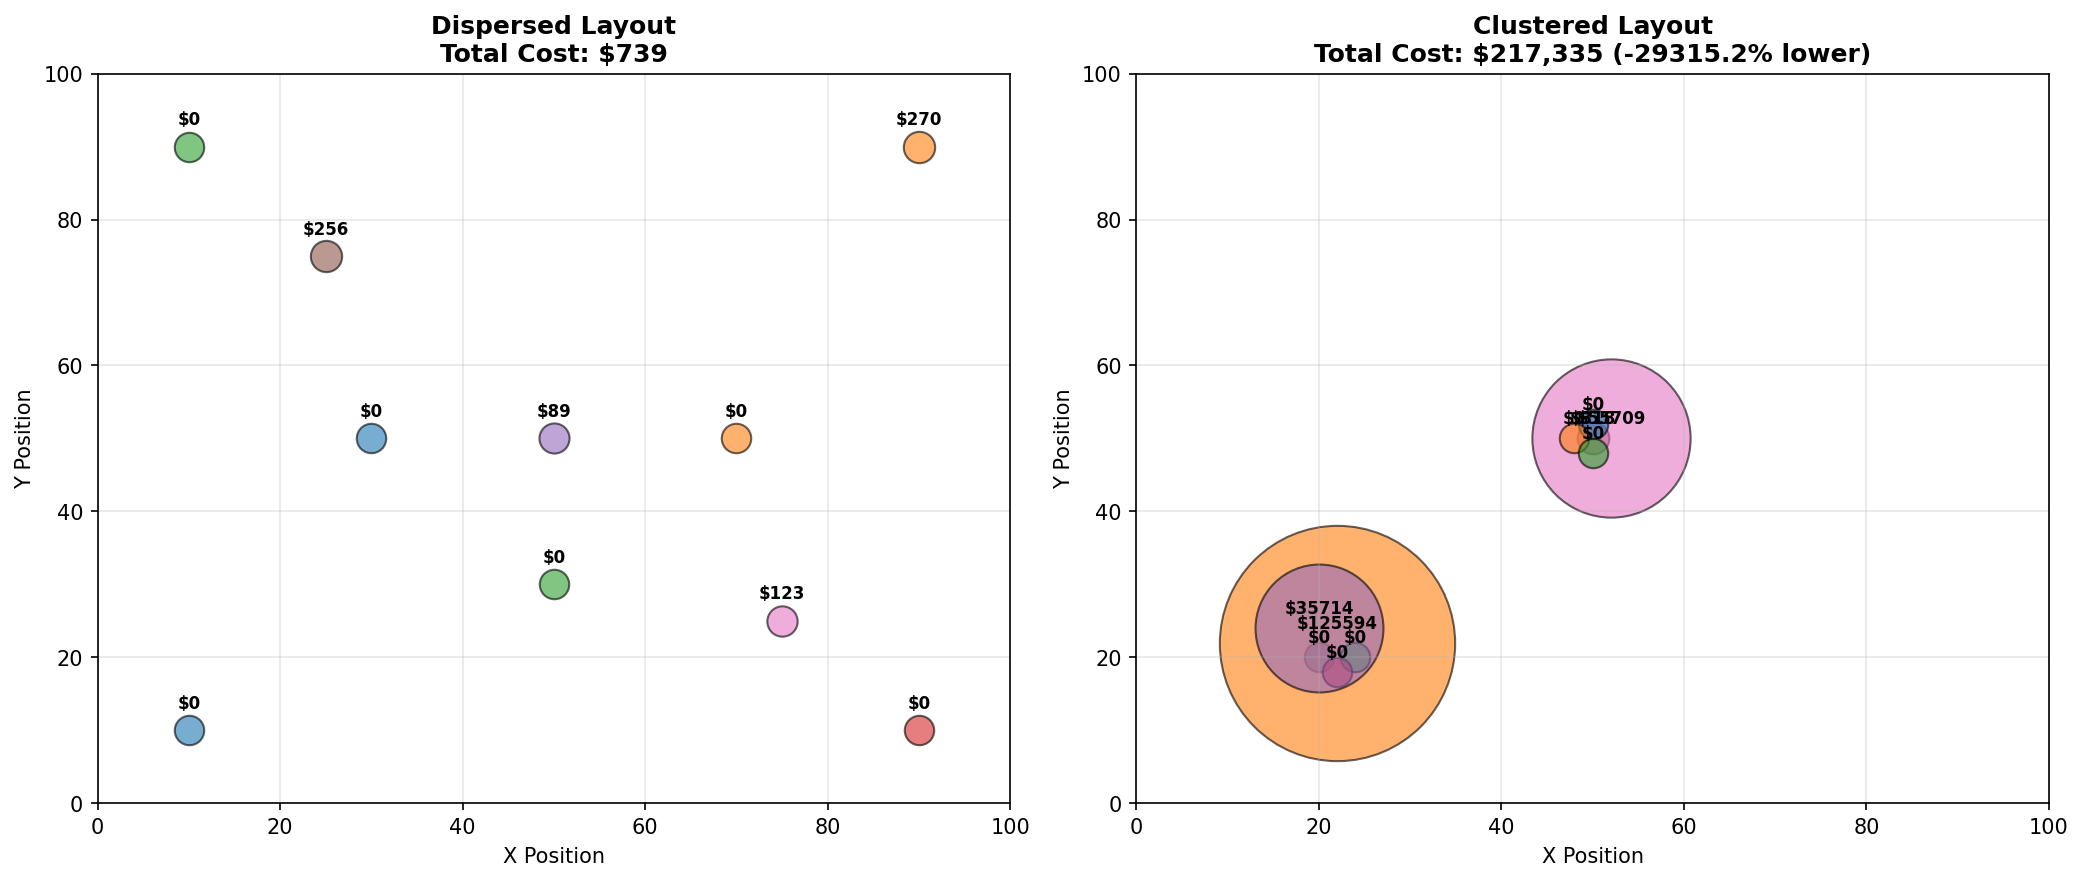
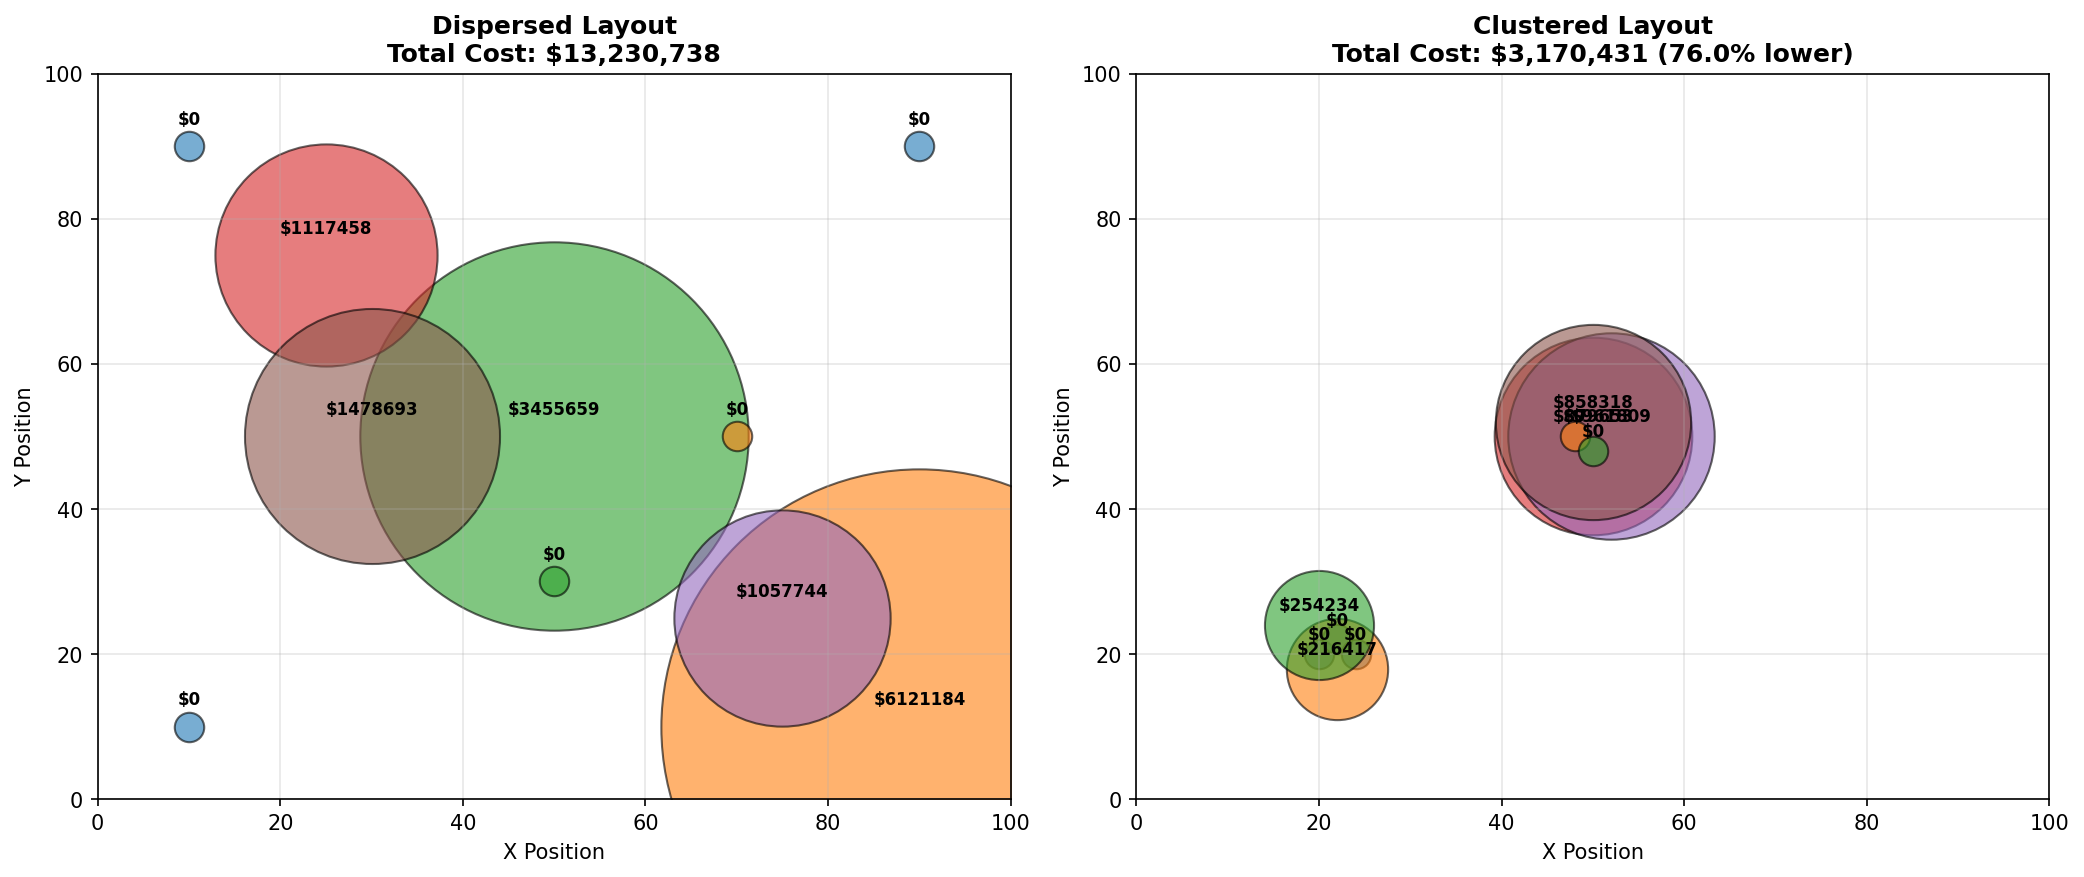
(bugfix) logits cost x^-2 -> x

diff --git a/demos/demo_logistic_cost.py b/demos/demo_logistic_cost.py
@@ -17,11 +17,11 @@ def visualize_cost_vs_distance():
     fig, (ax1, ax2) = plt.subplots(1, 2, figsize=(14, 5))
     
     # Plot 1: Cost vs Distance for different cost rates
-    distances = np.linspace(0.5, 50, 100)
+    distances = np.linspace(1, 50, 49)
     trade_volume = 1000.0
     
-    for rate in [10.0, 100.0, 500.0, 1000.0]:
-        costs = [rate * trade_volume / (d**2) for d in distances]
+    for rate in [0.1, 1.0, 10.0, 100.0]:
+        costs = [rate * trade_volume * d for d in distances]
         ax1.plot(distances, costs, label=f'k = {rate}', linewidth=2)
     
     ax1.set_xlabel('Distance', fontsize=12)
@@ -33,11 +33,11 @@ def visualize_cost_vs_distance():
     ax1.set_ylim(bottom=1)
     
     # Plot 2: Net profit vs Distance
-    revenue = 5000.0
+    revenue = 50000.0
     distance_range = np.linspace(1, 50, 50)
     
-    for rate in [100.0, 500.0]:
-        net_profits = [revenue - (rate * revenue * 0.2 / (d**2)) for d in distance_range]
+    for rate in [0.01, 0.1]:
+        net_profits = [revenue - (rate * revenue * 0.2 * d) for d in distance_range]
         ax2.plot(distance_range, net_profits, label=f'k = {rate}', linewidth=2, marker='o', markersize=3)
     
     ax2.axhline(y=revenue, color='green', linestyle='--', label='Max Profit (no logistics)', alpha=0.5)
@@ -57,31 +57,48 @@ def simulate_clustering_benefit():
     print("\n" + "="*70)
     print("CLUSTERING BENEFIT SIMULATION")
     print("="*70)
+    print("\n配置说明：")
+    print("  - 3个Tier 0公司（Raw材料）提供充足供应")
+    print("  - 7个下游公司从上游购买并产生物流成本")
+    print("  - production_capacity_ratio=0.5 确保供应充足")
+    print("  - logistic_cost_rate=100.0 使成本更明显")
+    print("  - 运行5个时间步以累积物流成本\n")
     
     # Scenario 1: Dispersed companies
     print("\n📍 Scenario 1: DISPERSED LAYOUT")
     print("   Companies spread across the map\n")
     
     config1 = Config()
-    config1.environment.logistic_cost_rate = 100.0
+    config1.environment.logistic_cost_rate = 100.0  # 提高费率使成本更明显
+    # 增加生产能力以确保供应充足
+    config1.environment.production_capacity_ratio = 0.5  # 从0.1提高到0.5
     env1 = IndustryEnv(config1.environment)
     env1.reset()
     
     # Create dispersed companies
+    # 使用更多会产生物流成本的sector（避免过多Tier 0和Other sector）
     locations_dispersed = [
         (10, 10), (90, 90), (10, 90), (90, 10), (50, 50),
         (25, 75), (75, 25), (30, 50), (70, 50), (50, 30)
     ]
     
+    # 使用sector_id: [0, 0, 0, 1, 2, 3, 4, 5, 1, 2]
+    # 3个Tier 0公司（Raw）提供充足供应，7个下游公司会购买并产生物流成本
+    sector_ids = [0, 0, 0, 1, 2, 3, 4, 5, 1, 2]
+    
     for i, loc in enumerate(locations_dispersed):
-        sector_id = i % 7  # Only 7 sectors: 0=Raw, 1=Parts, 2=Electronics, 3=Battery/Motor, 4=OEM, 5=Service, 6=Other
-        env1.companies.append(Company(100000, sector_id, loc, logistic_cost_rate=100.0))
+        sector_id = sector_ids[i]
+        env1.companies.append(Company(100000, sector_id, loc, logistic_cost_rate=1.0))
         env1.num_firms += 1
     
-    # Build supply chain network and run simulation
+    # Build supply chain network and run simulation multiple times
+    # 运行多次以累积物流成本
     if env1.enable_products:
         env1._build_supply_chain_network()
-        env1._simulate_supply_chain()
+        
+        # 运行5个时间步来累积物流成本
+        for step in range(5):
+            env1._simulate_supply_chain()
     
     total_cost_dispersed = sum(c.logistic_cost for c in env1.companies)
     avg_cost_dispersed = total_cost_dispersed / len(env1.companies) if env1.companies else 0
@@ -89,12 +106,18 @@ def simulate_clustering_benefit():
     print(f"   Total logistic cost: ${total_cost_dispersed:,.2f}")
     print(f"   Avg cost per company: ${avg_cost_dispersed:,.2f}")
     
+    # 显示每个公司的详细信息
+    non_zero_costs = sum(1 for c in env1.companies if c.logistic_cost > 0)
+    print(f"   Companies with logistic costs: {non_zero_costs}/{len(env1.companies)}")
+    
     # Scenario 2: Clustered companies
     print("\n📍 Scenario 2: CLUSTERED LAYOUT")
     print("   Companies grouped by supply chain relationships\n")
     
     config2 = Config()
-    config2.environment.logistic_cost_rate = 100.0
+    config2.environment.logistic_cost_rate = 100.0  # 提高费率使成本更明显
+    # 增加生产能力以确保供应充足
+    config2.environment.production_capacity_ratio = 0.5  # 从0.1提高到0.5
     env2 = IndustryEnv(config2.environment)
     env2.reset()
     
@@ -104,21 +127,33 @@ def simulate_clustering_benefit():
         (50, 50), (52, 50), (50, 52), (48, 50), (50, 48)   # Cluster 2
     ]
     
+    # 使用相同的sector分配以便公平比较
+    # 3个Tier 0公司（Raw）提供充足供应，7个下游公司会购买并产生物流成本
+    sector_ids = [0, 0, 0, 1, 2, 3, 4, 5, 1, 2]
+    
     for i, loc in enumerate(locations_clustered):
-        sector_id = i % 7  # Only 7 sectors: 0=Raw, 1=Parts, 2=Electronics, 3=Battery/Motor, 4=OEM, 5=Service, 6=Other
-        env2.companies.append(Company(100000, sector_id, loc, logistic_cost_rate=100.0))
+        sector_id = sector_ids[i]
+        env2.companies.append(Company(100000, sector_id, loc, logistic_cost_rate=1.0))
         env2.num_firms += 1
     
-    # Build supply chain network and run simulation
+    # Build supply chain network and run simulation multiple times
+    # 运行多次以累积物流成本
     if env2.enable_products:
         env2._build_supply_chain_network()
-        env2._simulate_supply_chain()
+        
+        # 运行5个时间步来累积物流成本
+        for step in range(5):
+            env2._simulate_supply_chain()
     
     total_cost_clustered = sum(c.logistic_cost for c in env2.companies)
     avg_cost_clustered = total_cost_clustered / len(env2.companies) if env2.companies else 0
     
     print(f"   Total logistic cost: ${total_cost_clustered:,.2f}")
     print(f"   Avg cost per company: ${avg_cost_clustered:,.2f}")
+    
+    # 显示每个公司的详细信息
+    non_zero_costs = sum(1 for c in env2.companies if c.logistic_cost > 0)
+    print(f"   Companies with logistic costs: {non_zero_costs}/{len(env2.companies)}")
     
     # Comparison
     print("\n📊 COMPARISON")
@@ -139,7 +174,7 @@ def simulate_clustering_benefit():
     tab10 = get_cmap('tab10')
     for i, company in enumerate(env1.companies):
         color = tab10(company.sector_id % 7)
-        size = 200 + company.logistic_cost / 10
+        size = 200 + company.logistic_cost / 100
         ax1.scatter(company.x, company.y, c=[color], s=size, alpha=0.6, edgecolors='black')
         ax1.text(company.x, company.y+3, f'${company.logistic_cost:.0f}', 
                 ha='center', fontsize=8, fontweight='bold')
@@ -155,7 +190,7 @@ def simulate_clustering_benefit():
     # Plot clustered
     for i, company in enumerate(env2.companies):
         color = tab10(company.sector_id % 7)
-        size = 200 + company.logistic_cost / 10
+        size = 200 + company.logistic_cost / 100
         ax2.scatter(company.x, company.y, c=[color], s=size, alpha=0.6, edgecolors='black')
         ax2.text(company.x, company.y+2, f'${company.logistic_cost:.0f}', 
                 ha='center', fontsize=8, fontweight='bold')

diff --git a/env/company.py b/env/company.py
@@ -21,10 +21,10 @@ class Company:
         sector_id: int,
         location: Tuple[float, float],
         op_cost_rate: float = 0.05,
-        logistic_cost_rate: float = 100.0,
+        logistic_cost_rate: float = 1.0,
         revenue_rate: float = 1.0,
         min_distance_epsilon: float = 0.1,
-        production_capacity_ratio: float = 0.1,
+        production_capacity_ratio: float = 0.1, # Max production = capital * ratio
         purchase_budget_ratio: float = 0.2,
     ):
         self.capital = capital
@@ -99,11 +99,10 @@ class Company:
         distance = self.distance_to(other)
         # Prevent division by zero for co-located companies
         # Use configured epsilon
-        distance = max(distance, self.min_distance_epsilon)
 
         # Inverse square law: cost increases with volume, decreases with square of distance
         # logistic_cost_rate controls the magnitude
-        cost = self.logistic_cost_rate * trade_volume / (distance**2)
+        cost = self.logistic_cost_rate * trade_volume * distance
 
         return cost
 

diff --git a/env/env.py b/env/env.py
@@ -115,7 +115,7 @@ class IndustryEnv(gym.Env):
             self.trade_volume_fraction = 0.01
             self.revenue_rate = 1.0
             self.min_distance_epsilon = 0.1
-            self.logistic_cost_rate = 100.0
+            self.logistic_cost_rate = 1.0
             self.disable_logistic_costs = False
             self.investment_multiplier = 0.01
             self.creation_reward = 50.0

diff --git a/config/config.py b/config/config.py
@@ -44,7 +44,7 @@ class EnvironmentConfig:
     min_distance_epsilon: float = 0.1
     
     # Logistic cost parameters
-    logistic_cost_rate: float = 100.0
+    logistic_cost_rate: float = 1.0
     
     # Reward parameters
     investment_multiplier: float = 0.01
